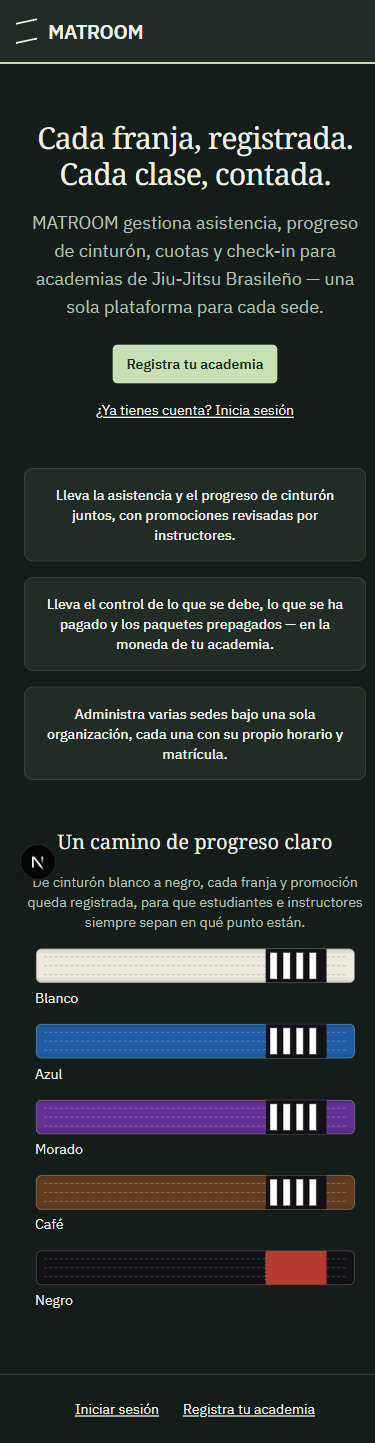
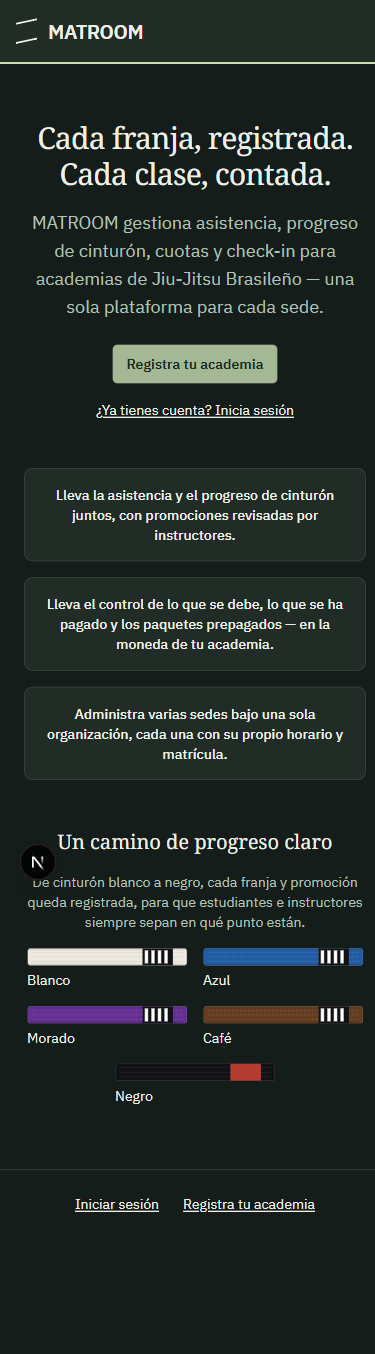
docs(landing): fix stale pre-fix screenshot, recapture against final head
04-landing-390-dark-es.png was captured before the belt-overflow fix
in 356842e, showing the pre-fix wide/single-column belt layout next
to 06's post-fix compact layout at the same viewport - the committed
source applies one unconditional className to every BeltGraphic call
regardless of theme/locale, so current code cannot produce that
difference.

- Recovered the original pre-fix 04 from the committed blob and
  preserved it, unmodified, as 04-landing-390-dark-es-prefix-historical.png.
- Re-captured 04-landing-390-dark-es.png against the final committed
  head (356842e) - now matches 06's layout. Measured directly:
  window.innerWidth 390, scrollWidth 375 (no overflow), belt SVGs at
  160px, rightmost edge 232px.
- Added 07-landing-320-light-es.png (320px x ES was not previously
  captured). Measured: innerWidth 320, scrollWidth 305 (no overflow),
  belt SVGs at 160px, rightmost edge 232px, no heading text clipping.
- Confirmed footer links remain visible, within viewport, and
  keyboard-reachable with a visible focus ring at both 390px and
  320px (real Tab presses from a fresh load).

No production code changed - this was a stale-screenshot artifact of
capture order, not a defect in the committed source.

Claude-Session: https://claude.ai/code/session_014oWJxnK2nFDxqsmRC12bJ6

diff --git a/design/matroom/verification/phase2-pr3-landing/README.md b/design/matroom/verification/phase2-pr3-landing/README.md
@@ -4,6 +4,30 @@ Real implementation, not a proposal. Verified against the actual running app (`p
 `design/matroom/preview/phase2-app/landing.html` prototype — that file is the approved reference this PR
 implements against, not evidence of this PR's own behavior.
 
+## Correction round (2026-10-14/15) — a stale pre-fix screenshot, found and fixed
+
+The original capture pass took `01`–`04` (1280 light/dark EN, 1280 light ES, 390 dark ES) *before* the
+320px-overflow bug below was found and fixed, then took the fixed `05` (320 light EN, re-captured after the
+fix) and `06` (390 light EN, captured fresh after the fix). This left `04` showing the **pre-fix** belt layout
+(wide, forced single-column — no `className` applied yet) side by side with `06`'s **post-fix** layout
+(compact, two-column) at the same reported 390px viewport, for no code reason — flagged correctly: the
+committed source applies one unconditional `className="w-40 sm:w-56 lg:w-80"` to every `<BeltGraphic>` call
+regardless of theme/locale, so current code cannot produce that difference. `01`–`03` were also captured before
+the fix, but are **not** affected by it: the fix's `lg:w-80` (320px) exactly matches the belt's previous
+unconstrained default width, and 1280px is within the `lg` breakpoint, so those three are pixel-identical
+whether captured before or after.
+
+**Resolution:**
+- The original pre-fix `04` PNG was recovered from the already-committed blob (`git show
+  356842e:design/.../screenshots/04-landing-390-dark-es.png`) and preserved, unmodified, as
+  `04-landing-390-dark-es-prefix-historical.png` — labeled accurately as historical, pre-fix evidence, not
+  current behavior.
+- `04-landing-390-dark-es.png` was **re-captured against the final committed head** (`356842e`, the only commit
+  on this branch — no production code changed by this correction round) and now matches `06`'s layout.
+- A new `07-landing-320-light-es.png` was captured (320px × ES was not previously covered; EN was, in `05`).
+- No production code was changed in this correction round — the mismatch was a stale-screenshot artifact of
+  capture order, not a defect in the committed `356842e` source, confirmed by direct measurement (next section).
+
 ## What changed
 
 - `src/app/[locale]/page.tsx`:
@@ -71,8 +95,15 @@ Chromium (Playwright), `pnpm dev` with `DATABASE_URL` overridden to the isolated
     visible and legible.
   - `03-landing-1280-light-es.png` — 1280px, ES — revised copy fits without truncation or awkward wrapping;
     belt labels correctly localized (Blanco/Azul/Morado/Café/Negro).
-  - `04-landing-390-dark-es.png` — 390px, dark, ES — single-column stack, no clipping, footer links wrap
-    cleanly.
+  - `04-landing-390-dark-es.png` — 390px, dark, ES, **re-captured against final head `356842e`** (correction
+    round): compact two-column belt layout, matching `06`'s layout at the same viewport. Measured directly
+    (`getBoundingClientRect`/`window.innerWidth`), not estimated: `window.innerWidth` 390, `document.
+    documentElement.scrollWidth` 375 (no horizontal overflow), all 5 belt `<svg>`s render at 160px width
+    (the `w-40` base class, since 390px is below Tailwind's 640px `sm` breakpoint), rightmost belt edge at
+    232px — well inside the viewport. No clipping, footer links fully visible.
+  - `04-landing-390-dark-es-prefix-historical.png` — the **original, pre-fix** capture (recovered unmodified
+    from the committed blob at `356842e`) — kept only as historical evidence of the capture-order artifact
+    described above, not as current behavior. Do not treat this file as representing the shipped page.
   - `05-landing-320-light-en.png` — 320px, EN, **after the belt-overflow fix**: all 5 belts fully contained
     with no horizontal overflow (the pre-fix state — belts bleeding past the right edge — was observed directly
     in this session, not separately retained as a file; this screenshot is the current, corrected branch's
@@ -80,6 +111,10 @@ Chromium (Playwright), `pnpm dev` with `DATABASE_URL` overridden to the isolated
   - `06-landing-390-light-en.png` — 390px, EN — belts wrap 2-per-row, no overflow; the circular "N" badge
     visible in this and the 320px/dark screenshots is Next.js's own dev-mode build-activity indicator
     (bottom-left corner overlay), not part of the page — it does not render in a production build.
+  - `07-landing-320-light-es.png` — 320px, ES, **final head `356842e`** (correction round — 320×ES was not
+    previously captured; `05` covers 320×EN). Measured directly: `window.innerWidth` 320, `scrollWidth` 305
+    (no overflow), belt `<svg>`s at 160px width, rightmost edge at 232px, `h1.scrollWidth` does not exceed
+    `h1.clientWidth` (no text clipping). Heading/body copy wraps cleanly across 2–4 lines with no truncation.
 - **Keyboard, real `Tab` key presses from a fresh page load (not simulated focus calls):** order confirmed
   `Register your academy (hero CTA) → Already have an account? Sign in (hero link) → Sign in (footer) →
   Register your academy (footer) → [Next.js dev-only portal, not page content]`. Every real link shows a
@@ -91,6 +126,11 @@ Chromium (Playwright), `pnpm dev` with `DATABASE_URL` overridden to the isolated
 - **Link destinations, real browser, read from the live DOM (not assumed from JSX):** footer EN —
   `/en/login`, `/en/register-academy`; footer ES — `/es/login`, `/es/register-academy`. Hero CTA/link
   destinations unchanged (`/${locale}/register-academy`, `/${locale}/login`).
+- **Correction round, 390px dark/ES and 320px ES specifically — footer link visibility and keyboard access,
+  real `Tab` presses from a fresh load:** both footer links (`Iniciar sesión` → `/es/login`, `Registra tu
+  academia` → `/es/register-academy`) are `display`/`visibility` visible, fully within the viewport's bounds
+  (`getBoundingClientRect`), reachable by real `Tab` presses in the same order as the EN pass, and show a
+  visible `outline: solid 2px` focus ring, at both 390px and 320px.
 
 ## What was not verified — reported honestly, not waived
 
